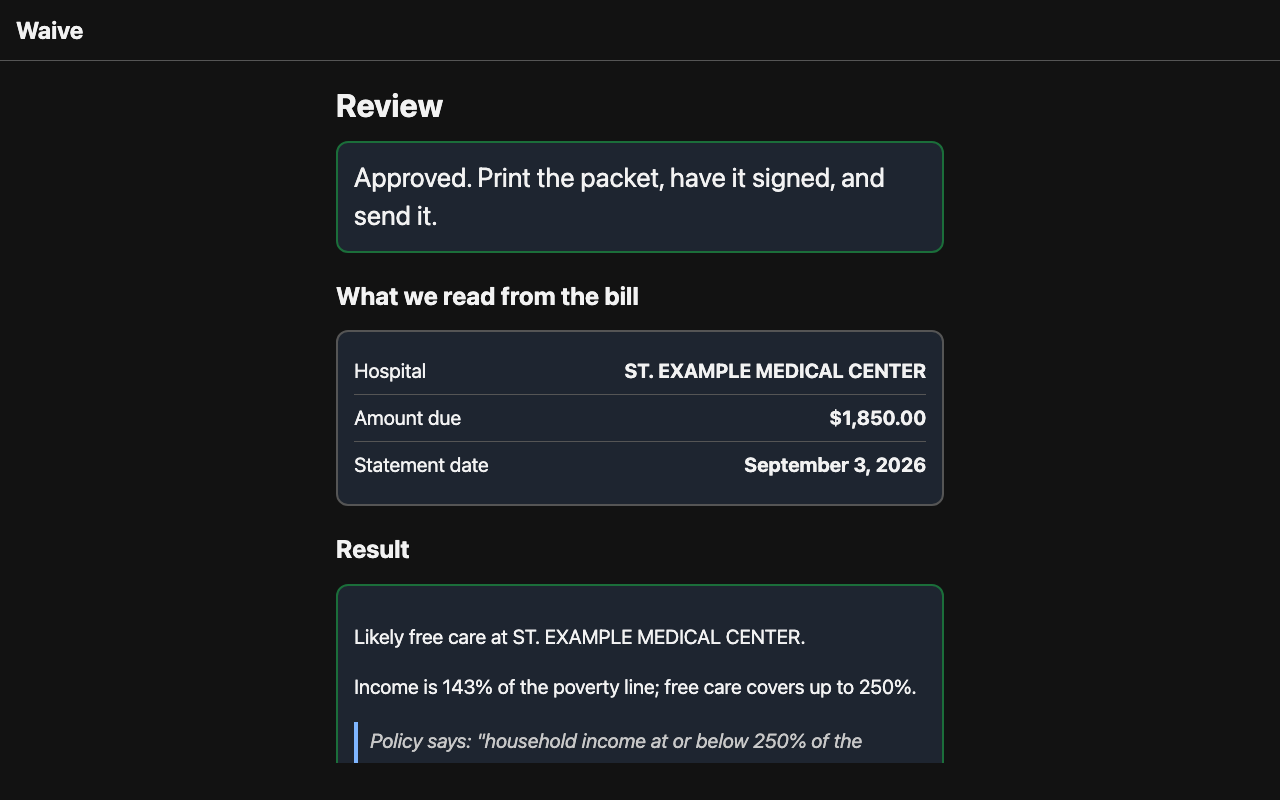
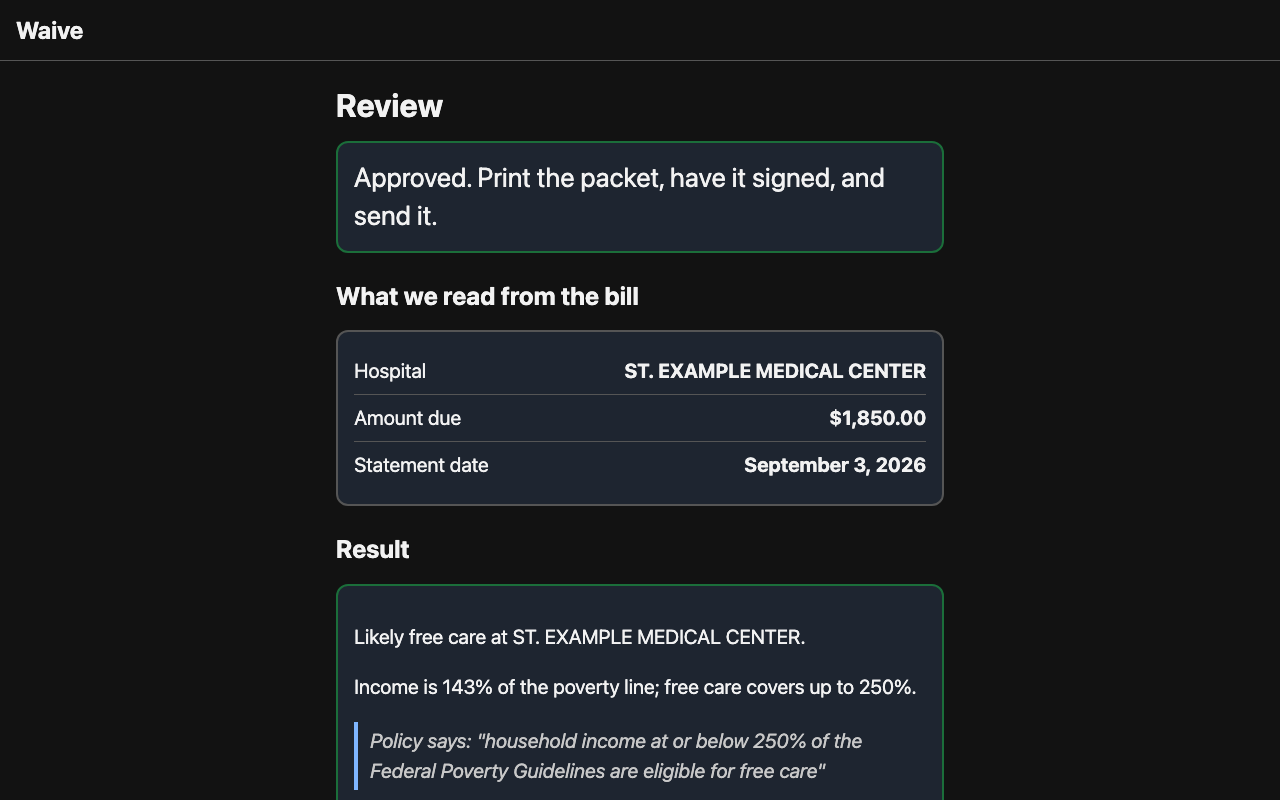
docs: gallery re-captured after the audit UI changes (8.10)

Changed region(s): [[0.25, 0.9375, 0.75, 1.0]]

diff --git a/src/waive/gallery.py b/src/waive/gallery.py
@@ -4,8 +4,9 @@ One demo case is driven through both flows in-process with scripted extraction o
 bill's ground truth), the app is served on a local port, and headless Chrome — already on the
 machine, no new Python dependency — photographs each page at phone or laptop size. Pages that
 exist only as POST responses (the "Two links" page, the read-back) or that change as the case
-advances (the senior start page, the review page before approval) are captured from their HTML
-with a <base href> so the stylesheet still loads. Chrome will not open a window narrower than
+advances (the senior start page, the household and income pages, which redirect to the result
+once the caregiver has approved, and the review page before approval) are captured from their
+HTML with a <base href> so the stylesheet still loads. Chrome will not open a window narrower than
 500 CSS px, so phone-sized shots are framed in an <iframe> of the phone's exact size. The colour
 scheme is pinned to dark on the command line, so a re-run on a light-mode machine takes the same
 pictures. README diagrams are exported through kroki.io. Spends nothing unless `live=True` (then
@@ -130,9 +131,13 @@ def plan_shots(
         )
     plan.shots.append(Shot("04-readback-phone", PHONE, html=readback.text))
     client.post(f"{senior}/confirm", data={"answer": "yes"})
-    plan.shots.append(Shot("05-household-phone", PHONE, url=f"{base_url}{senior}/household"))
+    # Once the caregiver has approved (shot 09), the senior link only shows the result: GET
+    # household/income redirect there. Chrome runs after the whole flow, so these two pages are
+    # kept as HTML at the moment the senior sees them.
+    household = client.get(f"{senior}/household").text
+    plan.shots.append(Shot("05-household-phone", PHONE, html=household))
     client.post(f"{senior}/household", data={"size": "1", "programs": "none"})
-    plan.shots.append(Shot("06-income-phone", PHONE, url=f"{base_url}{senior}/income"))
+    plan.shots.append(Shot("06-income-phone", PHONE, html=client.get(f"{senior}/income").text))
     client.post(f"{senior}/income", files={"photo": ("letter.jpg", letter, "image/jpeg")})
     plan.shots.append(Shot("07-result-phone", PHONE, url=f"{base_url}{senior}/result"))
     # The review page changes once approved (shot 09), so the pre-approval view is kept as HTML;

diff --git a/tests/unit/test_gallery.py b/tests/unit/test_gallery.py
@@ -1,3 +1,4 @@
+import re
 from pathlib import Path
 from urllib.parse import urlparse
 from urllib.request import url2pathname
@@ -94,6 +95,27 @@ def test_plan_shots_walks_both_flows_and_every_get_page_renders(tmp_path):
     assert by_name["08-caregiver-review-laptop"].size == TALL
     assert by_name["12-metrics-laptop"].size == TALL
     assert plan.files["packet-sample.pdf"][:5] == b"%PDF-"
+
+
+def test_household_and_income_shots_are_kept_from_before_the_approval(tmp_path):
+    # 8.10: the security audit locked the senior link once the caregiver approved (GET
+    # household/income redirect to the result), and Chrome only runs after the whole flow,
+    # approval included, has been driven — so a URL shot of those pages photographed the
+    # result page. They are kept as HTML from the moment the senior would see them.
+    client, bill, letter = demo_client(tmp_path)
+    plan = plan_shots(client, BASE, bill=bill, letter=letter, atlas_ccn="229999")
+    by_name = {shot.name: shot for shot in plan.shots}
+    household, income = by_name["05-household-phone"], by_name["06-income-phone"]
+    assert household.url is None and household.html is not None
+    assert "How many people live in your home" in household.html
+    assert income.url is None and income.html is not None
+    assert "Do you have your Social Security letter?" in income.html
+    assert "What we found" not in household.html and "What we found" not in income.html
+    # The reason, stated: after the approval the senior link only shows the result.
+    senior = re.search(r'href="(/s/[^"]+)"', by_name["02-two-links-laptop"].html).group(1)
+    for page in ("household", "income"):
+        response = client.get(f"{senior}/{page}", follow_redirects=False)
+        assert response.status_code == 303 and response.headers["location"].endswith("/result")
 
 
 def test_plan_shots_skips_the_sheet_shot_when_the_hospital_has_no_sheet(tmp_path):

diff --git a/docs/devpost/gallery/README.md b/docs/devpost/gallery/README.md
@@ -4,9 +4,12 @@ Captured with `uv run waive demo gallery` from the repository root (headless Chr
 extraction output equal to the demo bill's ground truth; nothing paid). Re-run after any UI
 change. The colour scheme is pinned to dark by `chrome_command` in `src/waive/gallery.py`
 (`--blink-settings=preferredColorScheme=0`; `=1` is light), so a re-run on any machine takes the
-same pictures whatever its appearance setting. Upload the PNGs to Devpost in this order with
-these captions. `packet-sample.pdf` is the caregiver's packet for the demo case, kept as a sample;
-the repository README links it under "Screenshots", and it is not uploaded to the gallery.
+same pictures whatever its appearance setting. Pages the senior cannot reach once the caregiver
+has approved (household, income) are kept as HTML at the moment the senior sees them, like the
+start page and the read-back. Upload the PNGs to Devpost in this order with these captions.
+`packet-sample.pdf` is the caregiver's packet for the demo case, kept as a sample (it carries the
+same first-bill note as the review page until the date is confirmed); the repository README links
+it under "Screenshots", and it is not uploaded to the gallery.
 
 | File | Caption |
 |---|---|
@@ -16,7 +19,7 @@ the repository README links it under "Screenshots", and it is not uploaded to th
 | `03-senior-start-phone.png` | One button per screen: take a photo of the bill (camera only) |
 | `05-household-phone.png` | Big-button household question |
 | `06-income-phone.png` | Income from a photo of the Social Security letter, or skip |
-| `08-caregiver-review-laptop.png` | The caregiver's review: what was read, the result with the exact policy quote, the dates that matter |
+| `08-caregiver-review-laptop.png` | The caregiver's review: what was read, the result with the exact policy quote, the dates that matter — with the note that they count from the photographed statement until the caregiver enters the first bill's date (below the frame: that date field, "Make new links", which retires both links, and delete) |
 | `09-caregiver-approved-laptop.png` | Approved: the packet is ready to print, have signed and send |
 | `02-two-links-laptop.png` | Two links: one for the person with the bill, one for the helper |
 | `11-atlas-sheet-laptop.png` | A published procedure sheet: every field with its quote, source and date; versioned (the version number is on the page, the diffs in the admin console) |
